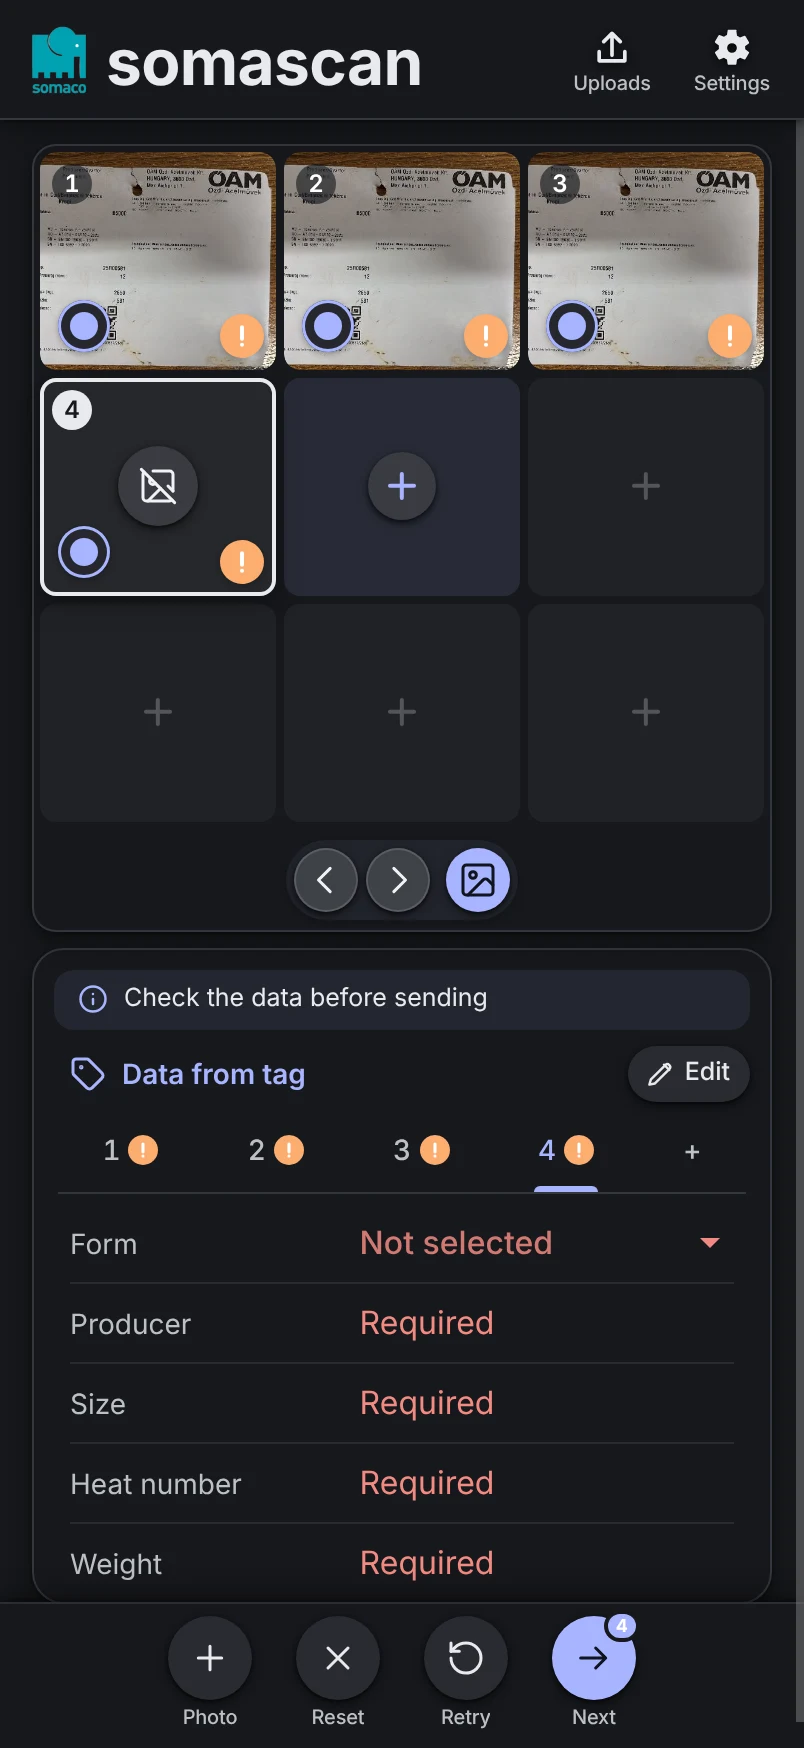
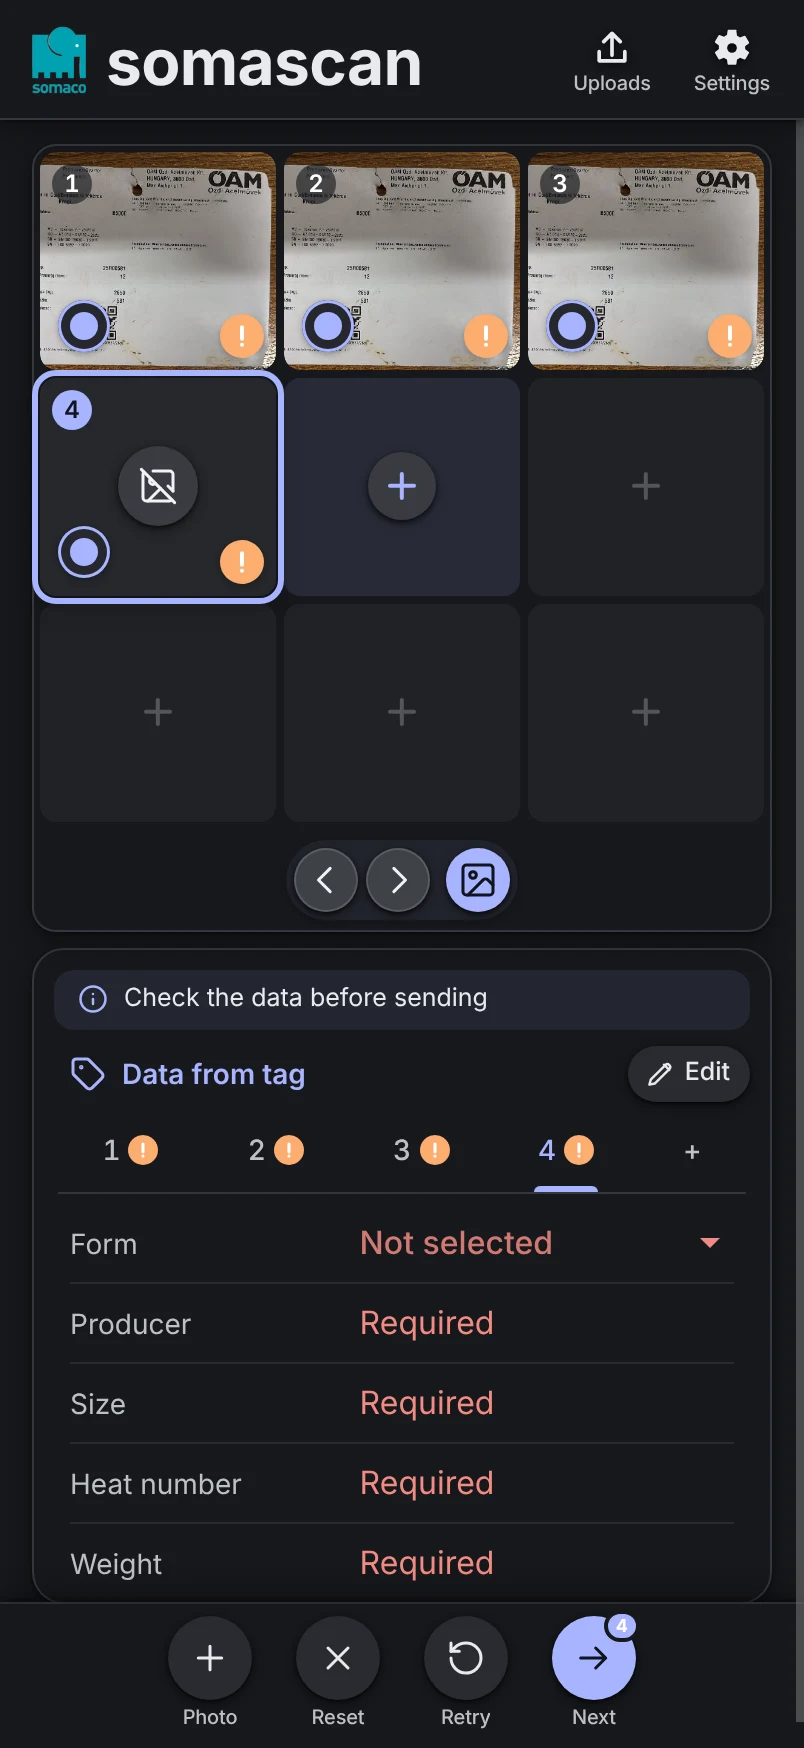
fix: + Grid: the open tag frame is outside the cell again (no cropped photo) and is a solid 3 px accent ring with a soft shadow and no glow, with the number in the same colour — the accent barely occurs in tag photos, so the frame stands out on dark and light photo edges alike, where a frame in the 

Changed region(s): [[0.0311, 0.1854, 0.3731, 0.3707]]

diff --git a/src/features/workspace/components/PhotoGrid.css b/src/features/workspace/components/PhotoGrid.css
@@ -3,27 +3,26 @@
  * и недоступные ячейки (заполняются только по порядку).
  * Карточка анимирует переход между сеткой и одной биркой (transform от левого верхнего угла).
  *
- * Отметки нейтральные: выбранная для отправки — заполненная точка-переключатель и неприглушённая миниатюра, открытая —
- * контрастная обводка цвета текста с тенью и такой же номер: сразу видно, на какой бирке стоишь.
+ * Отметки: выбранная для отправки — заполненная точка-переключатель и неприглушённая миниатюра (номер нейтральный),
+ * открытая — сплошная акцентная обводка с тенью и номер того же цвета: сразу видно, на какой бирке стоишь.
  */
 
 .photo-grid {
   /*
-   * Ячейки крупные: промежутки между ними и поле у краёв карточки минимальные. Обводка открытой ячейки — внутри
-   * неё, по краю: на соседние ячейки и за поле не выходит.
+   * Ячейки крупные: промежутки между ними и поле у краёв карточки минимальные. Обводка открытой ячейки (3 px
+   * с зазором 1 px) помещается в промежуток и в поле.
    */
   --photo-grid-gap: 4px;
   /* Ячейки концентричны блоку фото: его скругление минус поле сетки (на iOS блок круглее — и ячейки тоже). */
   --photo-grid-radius: calc(var(--photo-radius) - var(--photo-grid-gap));
   /*
-   * Обводка открытой бирки и рамки, которую ведёт палец (см. ниже): по краю ячейки, внутри неё, и тень, приподнимающая
-   * ячейку. Фото открытой ячейки отступает от обводки на `--photo-grid-frame-gap`: между ними полоска фона ячейки,
-   * и обводка видна на любом фото — и на тёмном крае, и на светлом.
+   * Обводка открытой бирки и рамки, которую ведёт палец (см. ниже): толщина, зазор от ячейки и тень, приподнимающая
+   * её. Цвет — акцентный: на снимках бирок (белое, серое, ржавое) он почти не встречается, и обводку видно и на тёмном
+   * крае фото, и на светлом (обводка цвета текста сливалась с краем того же тона).
    */
-  --photo-grid-frame-width: 2.5px;
-  --photo-grid-frame-offset: calc(-1 * var(--photo-grid-frame-width));
-  --photo-grid-frame-gap: 3px;
-  --photo-grid-frame-outline: var(--photo-grid-frame-width) solid var(--text-h);
+  --photo-grid-frame-width: 3px;
+  --photo-grid-frame-offset: 1px;
+  --photo-grid-frame-outline: var(--photo-grid-frame-width) solid var(--accent);
   --photo-grid-frame-shadow: 0 4px 14px rgb(0 0 0 / 30%);
   /* Сколько рамка переноса переезжает с ячейки на ячейку. */
   --photo-grid-frame-move: 260ms;
@@ -87,9 +86,7 @@
   pointer-events: none;
   user-select: none;
   -webkit-user-drag: none;
-  /* Без обрезки: к открытой ячейке края фото плавно отступают от обводки (ниже). */
-  clip-path: inset(0);
-  transition: opacity 160ms ease, clip-path 200ms ease;
+  transition: opacity 160ms ease;
   animation: backdrop-enter 200ms ease-out backwards;
 }
 
@@ -140,23 +137,15 @@
 }
 
 /*
- * Открытая бирка — контрастная обводка цвета текста снаружи ячейки (в тёмной теме светлая, в светлой — тёмная)
- * и тень под ней: ячейка приподнята над соседними. Не путается ни с акцентной точкой выбранных, ни с цветами
- * состояний. Та же обводка — у рамки, которую ведёт палец (`.photo-grid-frame`).
+ * Открытая бирка — сплошная акцентная обводка снаружи ячейки, без свечения, и тень под ней: ячейка приподнята
+ * над соседними. От точки выбранных отличается формой, от цветов состояний — цветом. Та же обводка — у рамки,
+ * которую ведёт палец (`.photo-grid-frame`).
  */
 .photo-grid-cell.is-active {
   z-index: 4;
   outline: var(--photo-grid-frame-outline);
   outline-offset: var(--photo-grid-frame-offset);
   box-shadow: var(--photo-grid-frame-shadow);
-}
-
-/* Фото открытой ячейки отступает от обводки — края фото обрезаются, ячейка и соседи не двигаются. */
-.photo-grid-cell.is-active .photo-grid-thumb {
-  clip-path: inset(
-    calc(var(--photo-grid-frame-width) + var(--photo-grid-frame-gap))
-    round max(0px, calc(var(--photo-grid-radius) - var(--photo-grid-frame-width) - var(--photo-grid-frame-gap)))
-  );
 }
 
 /*
@@ -224,8 +213,8 @@
 }
 
 .photo-grid-cell.is-active .photo-grid-number {
-  color: var(--bg);
-  background: var(--text-h);
+  color: var(--on-accent);
+  background: var(--accent);
 }
 
 /* Распознаётся: миниатюра притушена, по центру — спиннер. */
